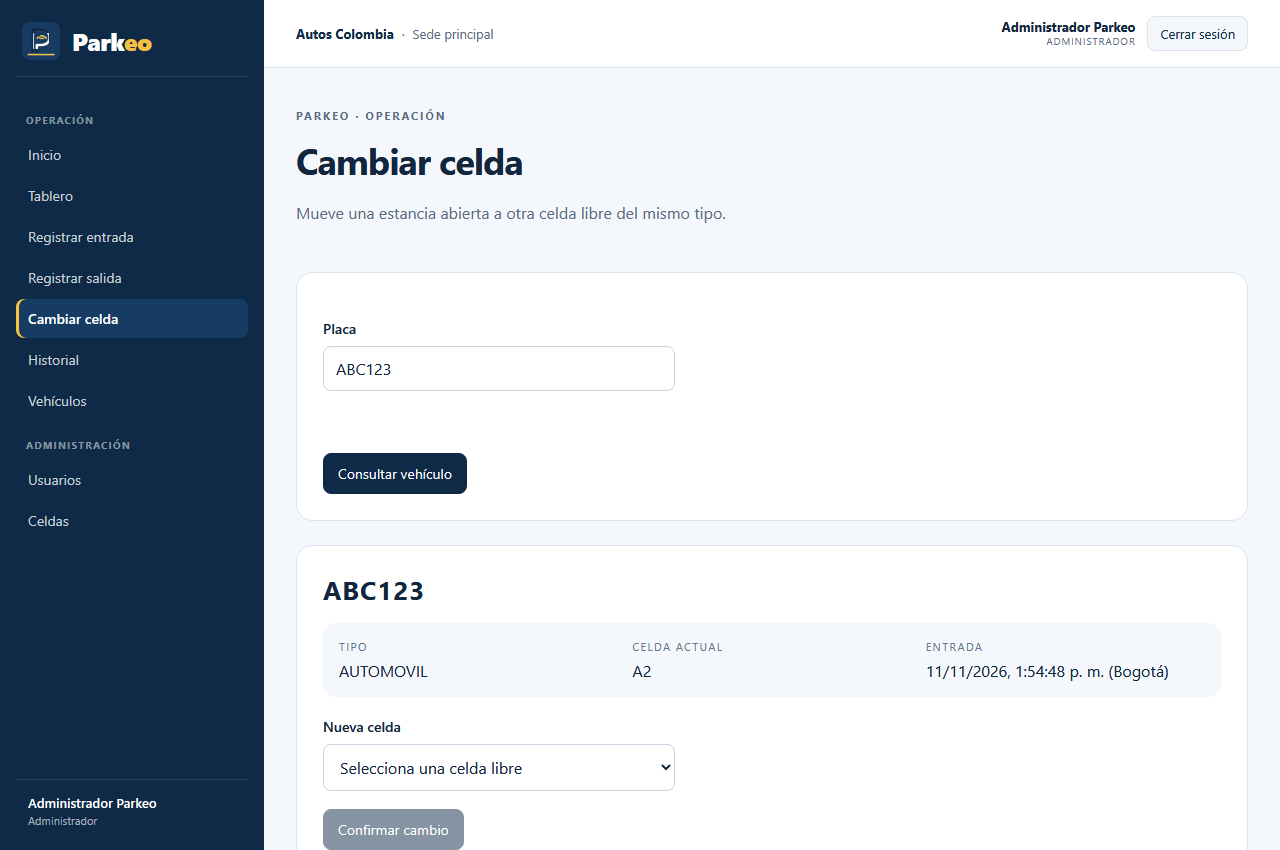
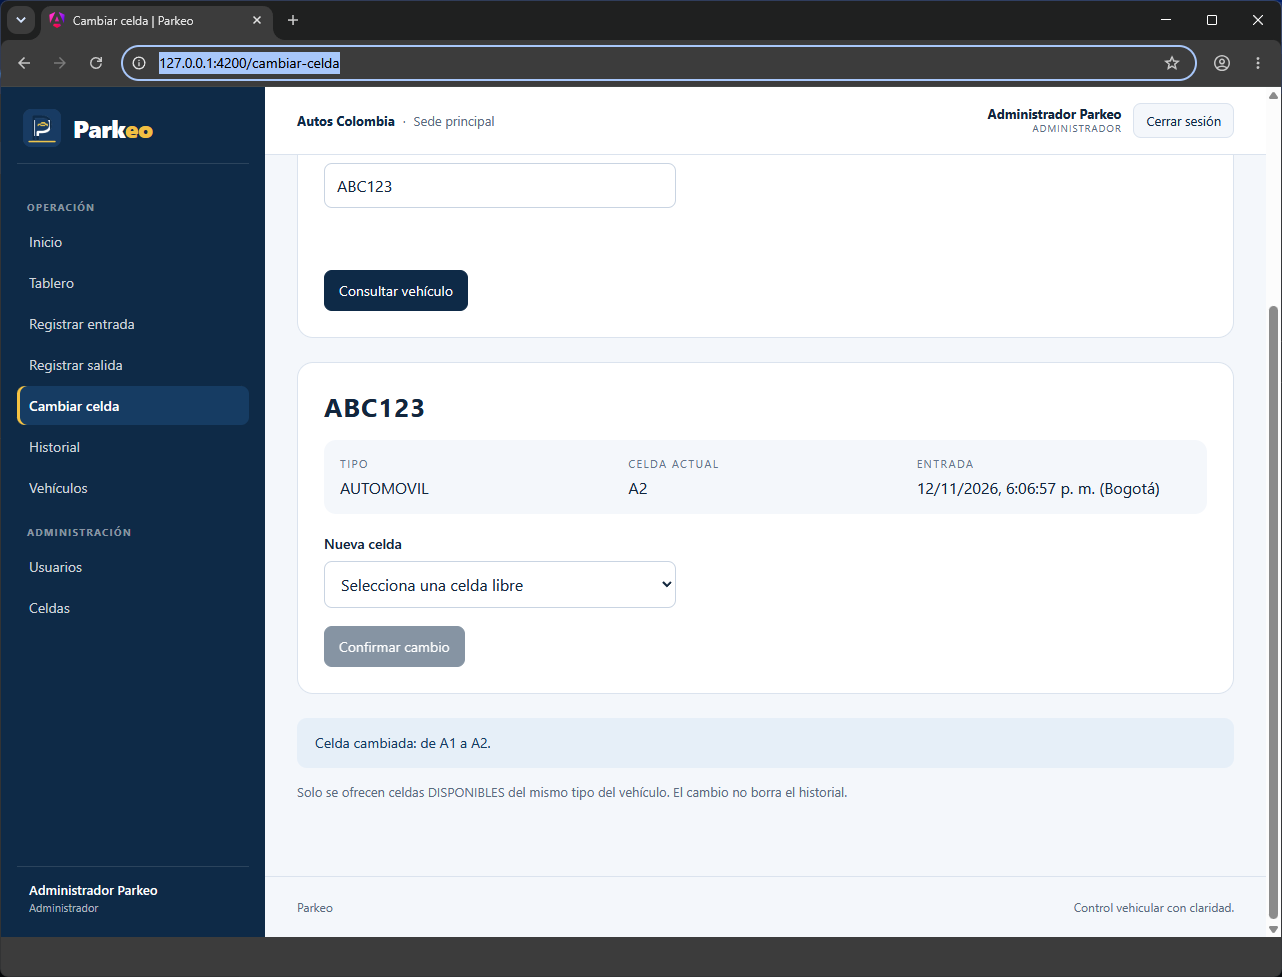
test(evidencias): rehacer las 9 capturas de los casos pendientes
Se reemplazan las capturas que no mostraban el mensaje o el estado esperado por tomas de ventana con barra de direcciones (1282x977), una por caso y sin duplicados.

- US-09, US-10 (dos capturas), US-12 y US-13 con los mensajes reales del formulario.
- CE-04 y CE-05 sobre la celda A2, con la tarjeta y los contadores a la vista.
- CE-11, CE-13 y CE-14 con la confirmacion y el error 409 en cuadro.
- Se agrega el registro de la reejecucion por API del 12/11 y se actualiza el README con los nombres vigentes.

diff --git a/evidencias/README.md b/evidencias/README.md
@@ -20,7 +20,7 @@ Un archivo por caso, con esta forma:
 
 - `<ID>` es el identificador del caso en el Excel: `US-01`, `PE-01`, `CE-01`.
 - `<slug>` es un resumen corto en minúsculas con guiones, sin acentos ni espacios.
-- Si un caso necesita más de una captura, se numera al final: `CE-07_entrada-celda-asignada-1.png`, `-2.png`.
+- Si un caso necesita más de una captura, cada archivo lleva un slug distinto que describa su parte del caso: `US-10_obligatorios-vacios.png`, `US-10_contrasena-corta.png`.
 - Formato **PNG**. No usar JPEG: el texto de los mensajes de error se degrada y deja de ser legible.
 
 El prefijo `ID_` no es decorativo: permite ordenar la carpeta alfabéticamente y que cada archivo quede alineado con su fila del Excel sin abrir ninguno.
@@ -37,11 +37,11 @@ El prefijo `ID_` no es decorativo: permite ordenar la carpeta alfabéticamente y
 | US-06 | `US-06_token-invalido-expirado.png` | Redirección a `/login` tras el 401. |
 | US-07 | `US-07_crear-operador.png` | Cuenta nueva en el listado de usuarios. |
 | US-08 | `US-08_no-crear-administrador.png` | Formulario sin selector de rol y cuenta creada como OPERADOR. |
-| US-09 | `US-09_documento-usuario-duplicado.png` | Mensaje de duplicado del backend. |
-| US-10 | `US-10_validaciones-cuenta-nueva.png` | Errores de validación del formulario. |
+| US-09 | `US-09_usuario-duplicado.png` | Mensaje «El documento o el nombre de usuario ya están registrados.» sobre el formulario. |
+| US-10 | `US-10_obligatorios-vacios.png`, `US-10_contrasena-corta.png` | Validación de obligatorios vacíos y rechazo de una contraseña de 7 caracteres. |
 | US-11 | `US-11_editar-operador.png` | Datos editados guardados en el listado. |
 | US-12 | `US-12_activar-desactivar-operador.png` | Cambio de estado reflejado y bloqueo sobre la cuenta administradora. |
-| US-13 | `US-13_restablecer-password.png` | Confirmación del restablecimiento. |
+| US-13 | `US-13_restablecer-contrasena.png` | Confirmación del restablecimiento. |
 | PE-01 | `PE-01_sin-token-401.png` | Salida de terminal con `401` y «Falta el token de sesión.» |
 | PE-02 | `PE-02_operador-no-gestiona-cuentas-403.png` | Salida de terminal con `403` al llamar `/usuarios` con token de operador. |
 | PE-03 | `PE-03_operador-no-cambia-estado-403.png` | Salida de terminal con `403` al cambiar estado de celda como operador. |
@@ -50,8 +50,8 @@ El prefijo `ID_` no es decorativo: permite ordenar la carpeta alfabéticamente y
 | CE-01 | `CE-01_listar-80-celdas.png` | Listado con las 80 celdas y su tipo. |
 | CE-02 | `CE-02_disponibilidad-cupo.png` | Cupo por tipo («Autos: N libres de 70»). |
 | CE-03 | `CE-03_disponibilidad-excluye-no-disponibles.png` | Celda ocupada o en mantenimiento ausente del cupo libre. |
-| CE-04 | `CE-04_celda-mantenimiento.png` | Celda en MANTENIMIENTO en la cuadrícula. |
-| CE-05 | `CE-05_habilitar-celda.png` | Celda de vuelta en DISPONIBLE. |
+| CE-04 | `CE-04_celda-mantenimiento.png` | Aviso «Celda A2 en mantenimiento.» con la tarjeta de la celda en MANTENIMIENTO. |
+| CE-05 | `CE-05_habilitar-celda.png` | Aviso «Celda A2 habilitada.» con la celda de vuelta en DISPONIBLE. |
 | CE-06 | `CE-06_no-desactivar-celda-ocupada-409.png` | Mensaje «La celda tiene una estancia abierta y no se puede desactivar.» |
 | CE-07 | `CE-07_entrada-celda-asignada.png` | Entrada registrada con la celda asignada por el servidor. |
 | CE-08 | `CE-08_entrada-ya-dentro-409.png` | Mensaje «Este vehículo ya figura dentro.» |
@@ -118,7 +118,7 @@ En la hoja `Casos`, columna **J — Evidencia: enlace o archivo**, cada fila lle
 evidencias/CE-07_entrada-celda-asignada.png
 ```
 
-Para los casos con dos capturas, se enlaza la carpeta del caso por prefijo o se listan las dos rutas separadas por coma. Y en la columna **K — Incidencia / bloqueo** se describe qué pasó cuando el resultado no coincide con el esperado; si no hubo incidencia, se deja vacía.
+Para los casos con dos capturas, se listan las dos rutas separadas por `; ` en la misma celda. Y en la columna **K — Incidencia / bloqueo** se describe qué pasó cuando el resultado no coincide con el esperado; si no hubo incidencia, se deja vacía.
 
 Las columnas **H a M** se llenan en el momento de la ejecución, no después: estado, resultado real, evidencia, incidencia, fecha y responsable.
 
